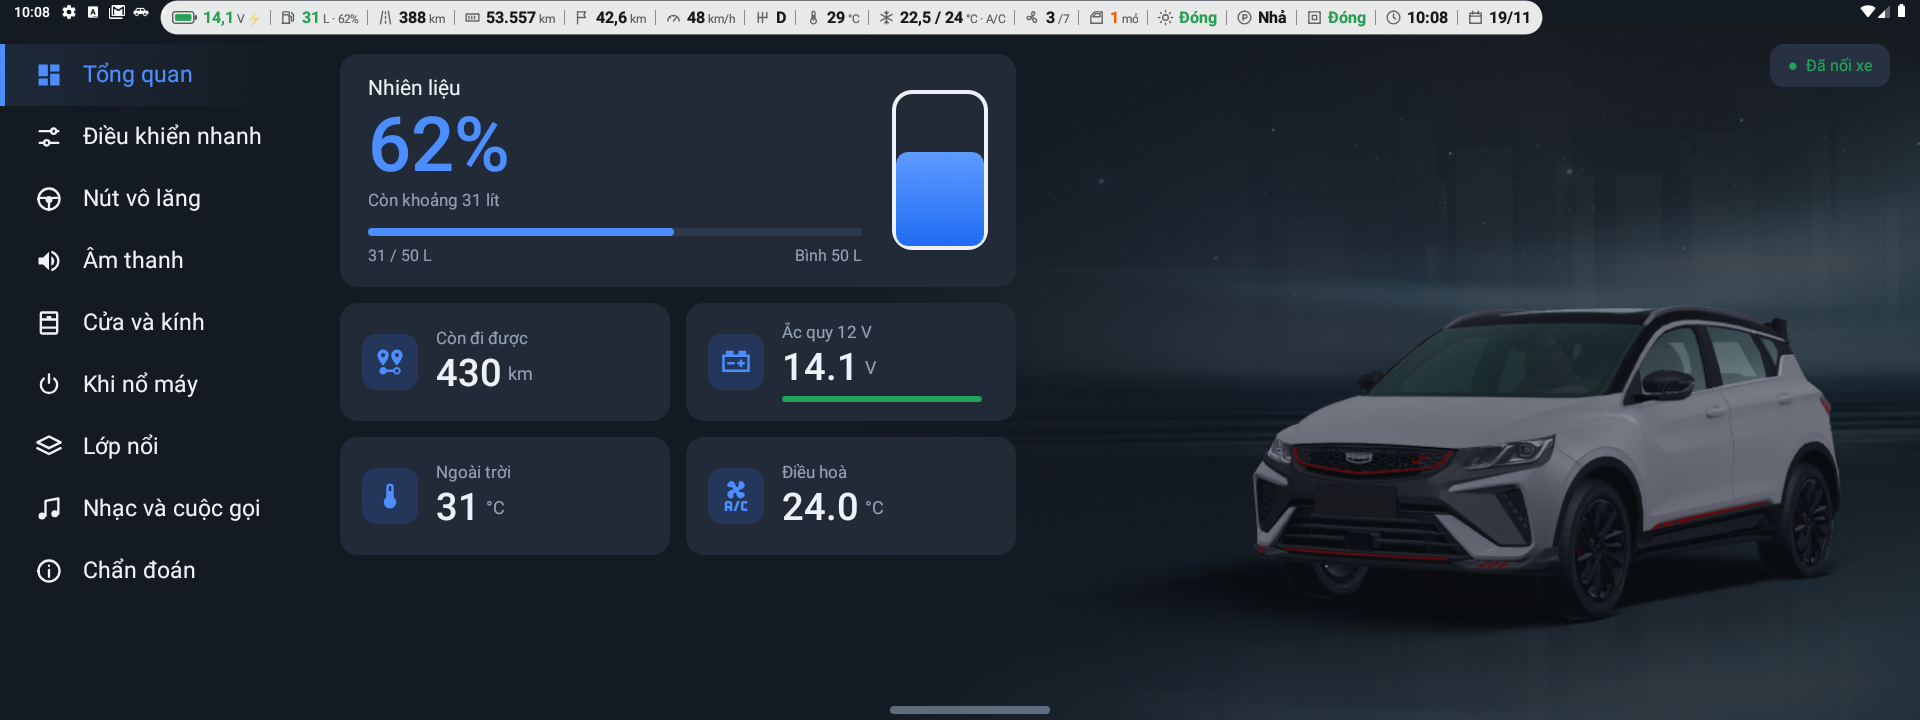
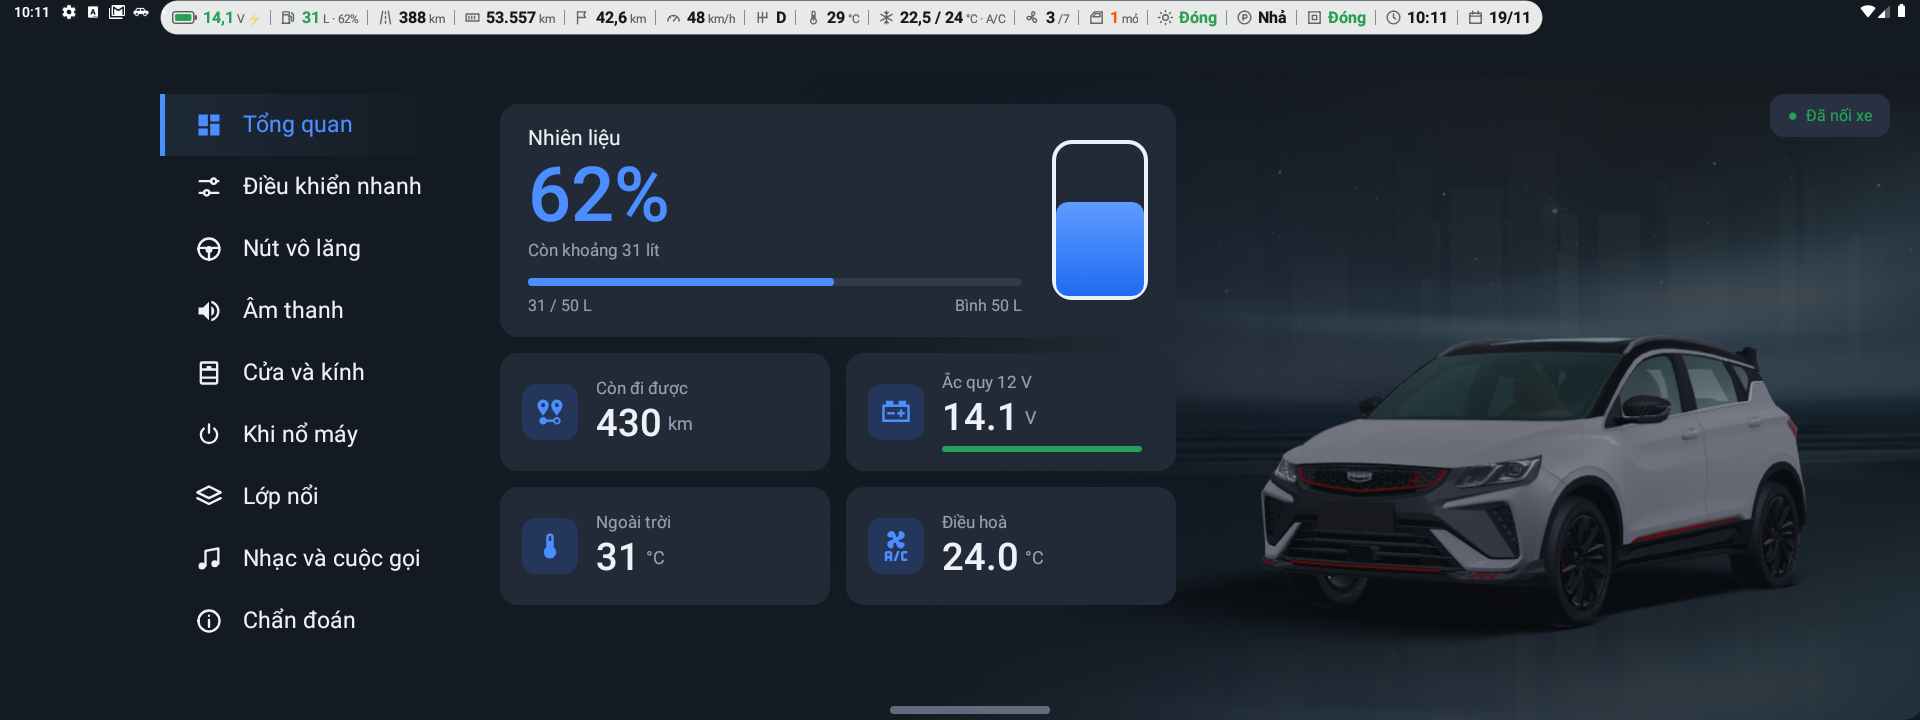
Đặt sẵn khoảng chừa giao diện gốc (trái 160, trên 50) khi hệ thống không báo insets

diff --git a/app/src/main/java/vn/tht/hub/MainActivity.kt b/app/src/main/java/vn/tht/hub/MainActivity.kt
@@ -103,12 +103,14 @@ class MainActivity : Activity() {
         val root = FrameLayout(this).apply { setBackgroundColor(p.bg) }
         // Chừa giao diện gốc của xe: thanh OEM trái và vùng trạng thái trên (Coolray: mStable=[160,50][1920,720]).
         // Lấy theo khoảng hệ thống báo; hệ thống báo 0 thì dùng mặc định của xe.
+        root.setPadding(STOCK_LEFT, STOCK_TOP, 0, 0)
         root.setOnApplyWindowInsetsListener { v, ins ->
             val left = maxOf(ins.systemWindowInsetLeft, ins.stableInsetLeft).takeIf { it > 0 } ?: STOCK_LEFT
             val top = maxOf(ins.systemWindowInsetTop, ins.stableInsetTop).takeIf { it > 0 } ?: STOCK_TOP
             v.setPadding(left, top, ins.systemWindowInsetRight, ins.systemWindowInsetBottom)
             ins.consumeSystemWindowInsets()
         }
+        root.requestApplyInsets()
         hero = ImageView(this).apply {
             setImageResource(if (p.dark) R.drawable.hero_night else R.drawable.hero_day)
             scaleType = ImageView.ScaleType.CENTER_CROP
